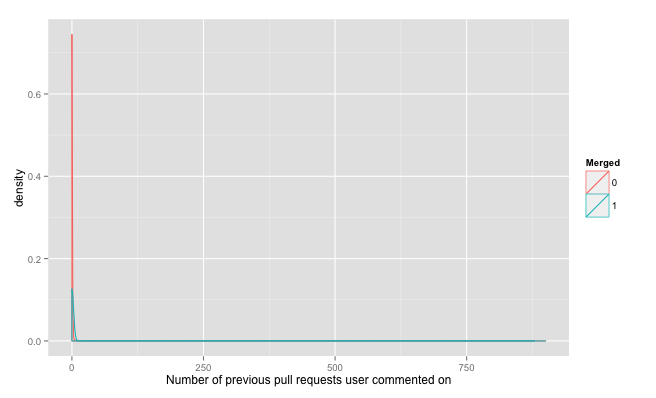
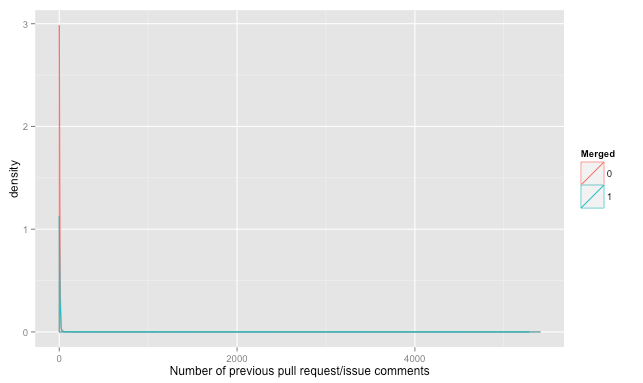
Include issues.

Changed region(s): [[0.0, 0.0287, 0.9642, 1.0]]

diff --git a/tex/cscw2015.tex b/tex/cscw2015.tex
@@ -273,10 +273,10 @@ methods we used.
 Research Question
 & Data                                  & Measure
 \\
-How does a user engage before submitting their first pull request?
-& Comments on other pull requests.      & We plot the total number
-of pull requests a user has commented in
-Figure~\ref{fig:up_density}.
+How does a user engage before submitting their first pull request?  &
+Comments on other pull requests/issues, issues opened.      & We plot the total
+number of pull requests and issues a user has commented on and number of issues
+opened in Figure~\ref{fig:up_density}.
 \\
 Does community response affect whether or not a pull request is
 merged? & Number of comments on pull request.   & We plot the
@@ -294,18 +294,16 @@ Table~\ref{tbl:classifiers} \\
 \end{table*}
 
 \subsection{Developer's Engagement}
-To explore the process of legitimate peripheral participation, we count the
-total number of pull requests a developer commented on before submitting his own
-pull request. As discussed in Section~\ref{sec:communities}, we consider
-commenting on other pull requests the primary peripheral activity a user can
-participate in. Previous studies indicate that users participate in technical
-discussions before submitting code~\cite{von_krogh_community_2003}. Pull
-requests allow users to comment on new features or other changes to the code
-base. Although there are other peripheral activities a user may engage in on the
-site, for example, making updates to a project wiki, not all projects use these
-other features offered by GitHub. Pull requests are used by all the repositories
-in our data set, so we examine only those comments to quantify participation by
-a user. This variable is shown in Figure~\ref{fig:up}.
+To explore the process of legitimate peripheral participation, we use three
+variables. We count the
+total number of pull requests a developer commented on, submitting his own
+pull request, the total number of issues a developer commented on, and the total
+number of issues opened by the developer before submitting their own pull
+request. Not all repositories in our data set use GitHub issues, so for those
+repositories, we only consider the number of previous pull requests a developer
+commented on. Previous studies indicate that users participate in technical
+discussions before submitting code~\cite{von_krogh_community_2003}. We sum these
+three variables together and plot the it in Figure~\ref{fig:up}.
 
 \begin{figure}[p] \centering
 \includegraphics[scale=0.6]{figures/number_comments_density_ggplot.png}
